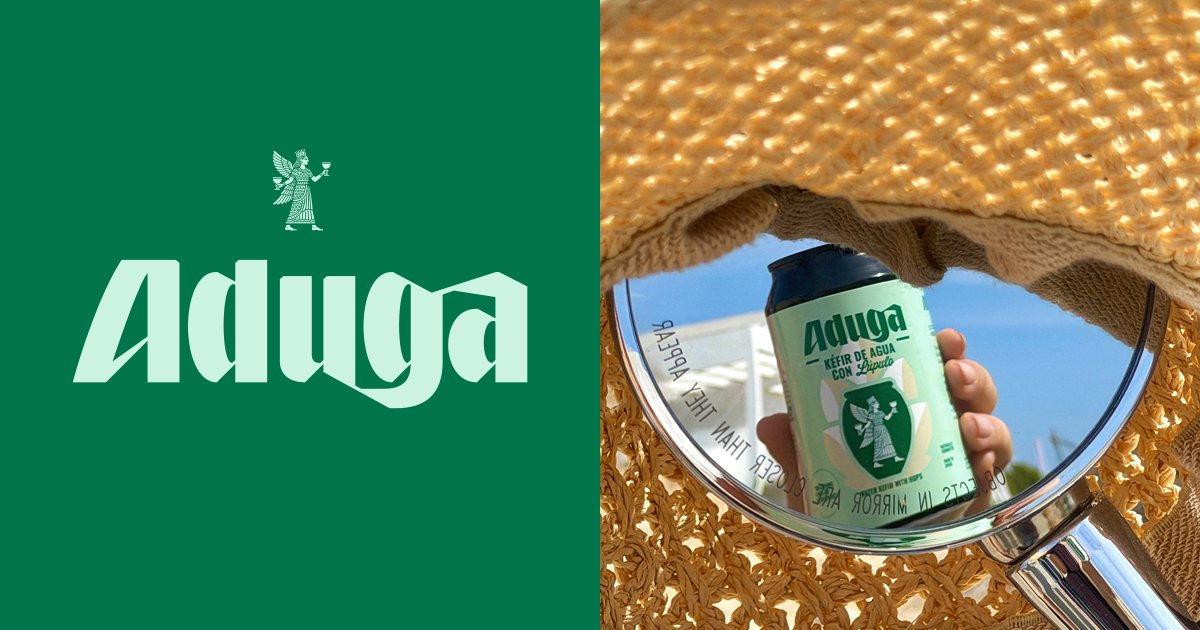
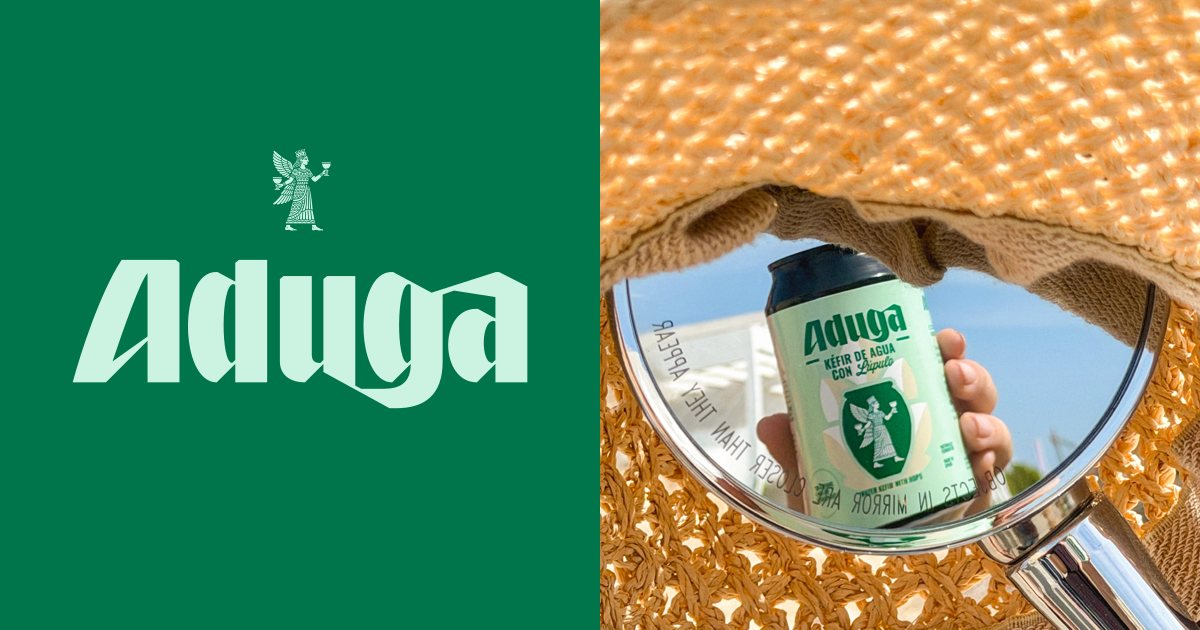
Hero: versión final de la foto del espejo (editada por Federica)
Claude-Session: https://claude.ai/code/session_01NCXXDtuLUHPraNBVjAB9qo

diff --git a/index.html b/index.html
@@ -15,13 +15,13 @@
   <meta property="og:description" content="Kéfir de agua artesanal, naturalmente fermentado, con cultivos vivos y un sabor ligero, cítrico y refrescante.">
   <link rel="canonical" href="https://aduga.co/">
   <meta property="og:url" content="https://aduga.co/">
-  <meta property="og:image" content="https://aduga.co/assets/img/og.jpg?v=3">
+  <meta property="og:image" content="https://aduga.co/assets/img/og.jpg?v=4">
   <meta property="og:image:width" content="1200">
   <meta property="og:image:height" content="630">
   <meta name="twitter:card" content="summary_large_image">
 
   <link rel="icon" href="assets/icons/favicon.svg" type="image/svg+xml">
-  <link rel="preload" as="image" href="assets/img/hero-espejo-1536.webp?v=2" imagesrcset="assets/img/hero-espejo-900.webp?v=2 900w, assets/img/hero-espejo-1536.webp?v=2 1536w" imagesizes="(min-width: 900px) 48vw, 100vw">
+  <link rel="preload" as="image" href="assets/img/hero-espejo-1536.webp?v=3" imagesrcset="assets/img/hero-espejo-900.webp?v=3 900w, assets/img/hero-espejo-1536.webp?v=3 1536w" imagesizes="(min-width: 900px) 48vw, 100vw">
   <link rel="preload" as="font" type="font/woff" href="assets/fonts/oswald-bold.woff" crossorigin>
   <link rel="preconnect" href="https://fonts.googleapis.com">
   <link rel="preconnect" href="https://fonts.gstatic.com" crossorigin>
@@ -487,7 +487,7 @@
           </div>
         </div>
         <div class="hero__media">
-          <img src="assets/img/hero-espejo-1536.webp?v=2" srcset="assets/img/hero-espejo-900.webp?v=2 900w, assets/img/hero-espejo-1536.webp?v=2 1536w" sizes="(min-width: 900px) 48vw, 100vw" width="1536" height="1598" alt="Una lata de ADUGA reflejada en un espejo de mano, bajo un bolso de rafia y un cielo azul." fetchpriority="high">
+          <img src="assets/img/hero-espejo-1536.webp?v=3" srcset="assets/img/hero-espejo-900.webp?v=3 900w, assets/img/hero-espejo-1536.webp?v=3 1536w" sizes="(min-width: 900px) 48vw, 100vw" width="1536" height="1598" alt="Una lata de ADUGA reflejada en un espejo de mano, bajo un bolso de rafia y un cielo azul." fetchpriority="high">
           <div class="badge" aria-hidden="true">
             <svg viewBox="0 0 128 128"><defs><path id="circ" d="M64,64 m-50,0 a50,50 0 1,1 100,0 a50,50 0 1,1 -100,0"/></defs><text><textPath href="#circ">Naturalmente fermentado · Cultivos vivos ·</textPath></text></svg>
             <img class="badge__mark" src="assets/icons/ninkasi-vasija.svg" alt="" width="46" height="56">
